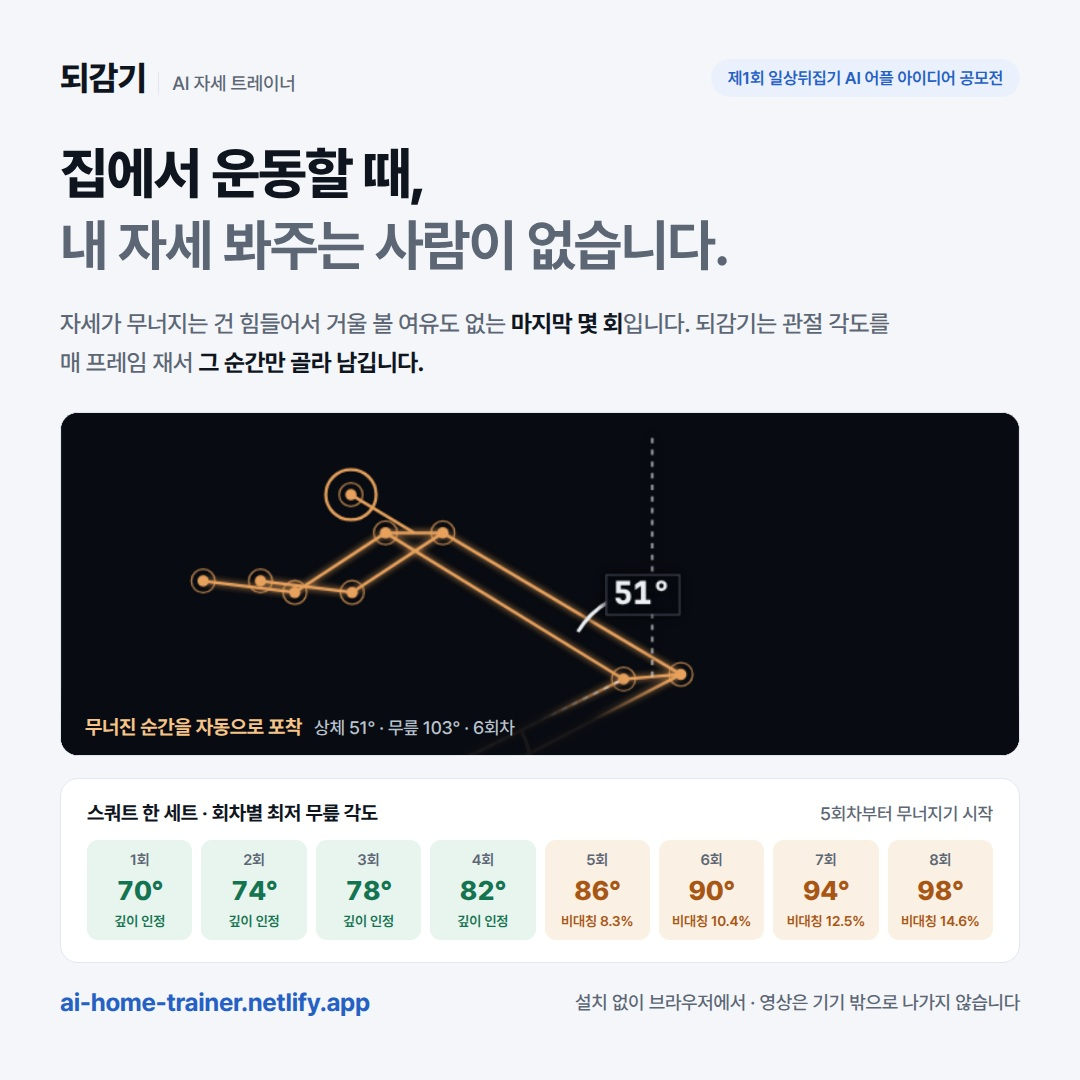
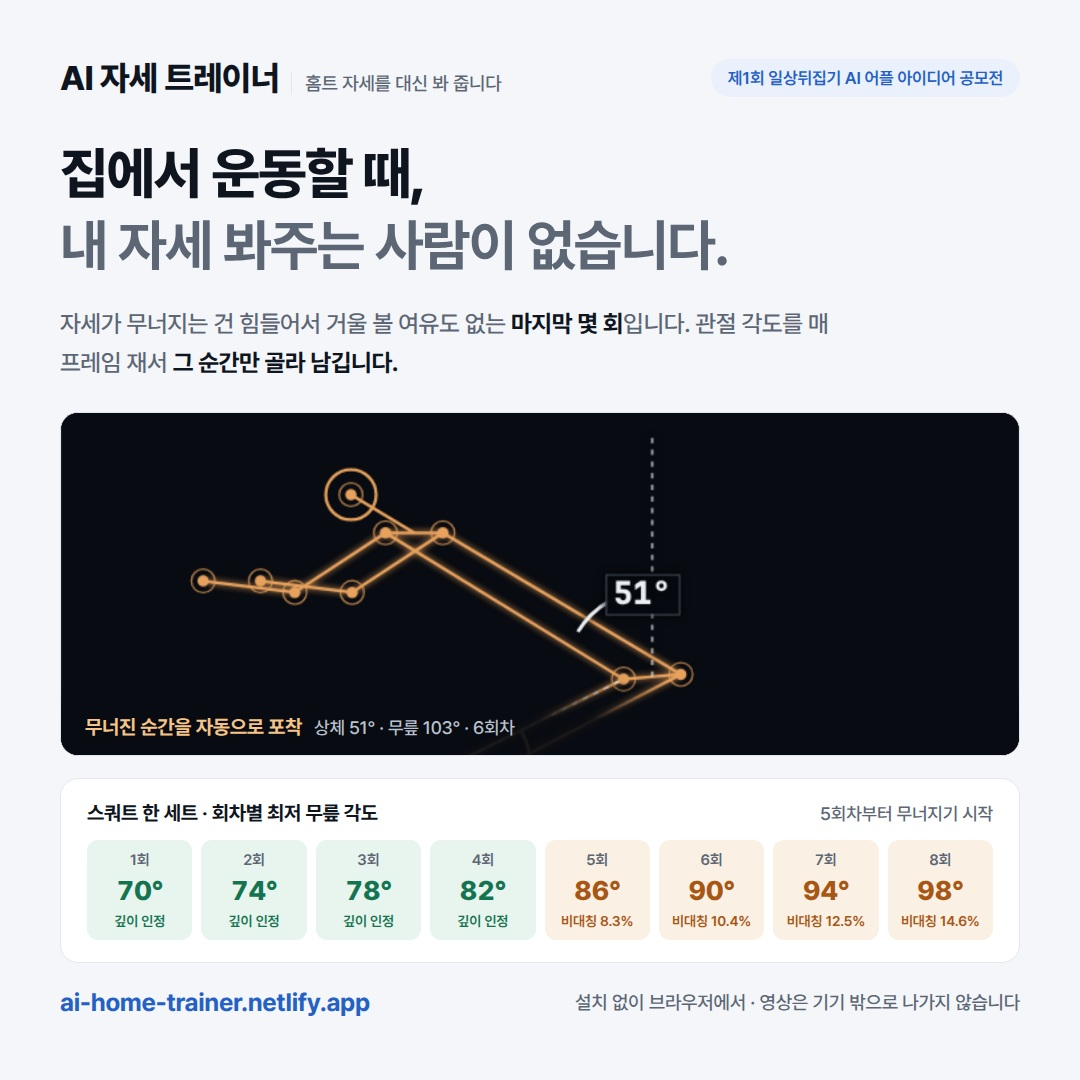
이름 변경: 되감기 → AI 자세 트레이너
"되감기"는 무슨 서비스인지 전달되지 않는다는 판단으로 프로젝트에서 제거했다.
index.html, deck.html, 인스타 카드, 제출 문서, 파일명까지 전부 반영.

- index.html 9곳: title, og:title, 헤더 로고, 본문 3곳, 푸터 2곳,
  결과 PNG 합성 시 캔버스에 찍는 문자열 1곳
- deck.html 11곳 → 소개서 5장 재렌더(1600x900, 900px 이내·잘린 글자 없음 확인)
- 이름이 길어져 모바일 헤더에서 로고가 두 줄로 접혔다.
  560px 이하에서 로고 18px·nowrap, 배지는 ON-DEVICE만 남기도록 수정
- 파일명: 되감기_소개서_*.jpg → AI자세트레이너_소개서_*.jpg,
  제출키트도 동일하게 변경
- 게시글 제목: [롱제비티코드/김주형] AI 자세 트레이너 |
  홈트 자세, 무너진 순간만 잡아주는 웹앱

Changed region(s): [[0.0611, 0.3056, 0.3972, 0.3667], [0.0611, 0.0611, 0.4583, 0.0917], [0.6417, 0.275, 0.825, 0.3056]]

diff --git a/deck.html b/deck.html
@@ -153,7 +153,7 @@ h1 .hi,h2 .hi{color:var(--accent)}
       <div class="src">출처 · 스포츠안전재단 「2015년 스포츠 안전사고 실태조사」(3,031명 대상) / 시장조사 기반 홈트레이닝 이용 조사(2020년 보도 기준). 두 수치 모두 조사 시점이 현재와 차이가 있어 참고 지표로 제시합니다.</div>
     </div>
   </div>
-  <div class="brand"><b>되감기</b> REWIND</div>
+  <div class="brand"><b>AI 자세 트레이너</b></div>
   <div class="pnum">01 / 05</div>
 </div>
 
@@ -176,7 +176,7 @@ h1 .hi,h2 .hi{color:var(--accent)}
         </ul>
       </div>
       <div class="new">
-        <div class="h">되감기가 채우는 자리</div>
+        <div class="h">이 서비스가 채우는 자리</div>
         <ul>
           <li>힘든 회차일수록 <b>자동으로</b> 잡아 둔다 — 볼 여유가 없어도 된다</li>
           <li>링크만 열면 끝. <b>설치·가입·촬영 버튼이 없다</b></li>
@@ -188,12 +188,12 @@ h1 .hi,h2 .hi{color:var(--accent)}
     <div class="two" style="grid-template-columns:1.35fr .65fr;align-items:center;gap:34px">
       <div class="note">
         <div class="t">핵심 니즈 한 줄</div>
-        <div class="d">“운동을 대신 짜주지 말고, <b style="color:#0F151E">내가 지금 무너지고 있다는 사실만</b> 제때 알려 달라.” 되감기는 프로그램을 처방하지 않습니다. 관찰만 합니다.</div>
+        <div class="d">“운동을 대신 짜주지 말고, <b style="color:#0F151E">내가 지금 무너지고 있다는 사실만</b> 제때 알려 달라.” 프로그램을 처방하지 않습니다. 관찰만 합니다.</div>
       </div>
-      <div class="big">매일 홈트 자세가 맞는지 확인하는 게 너무 귀찮다<br><span class="hi">→ AI로 무너진 순간만 잡아 되돌려 보여주는 되감기</span></div>
+      <div class="big">매일 홈트 자세가 맞는지 확인하는 게 너무 귀찮다<br><span class="hi">→ AI로 무너진 순간만 잡아 되돌려 보여주는 AI 자세 트레이너</span></div>
     </div>
   </div>
-  <div class="brand"><b>되감기</b> REWIND</div>
+  <div class="brand"><b>AI 자세 트레이너</b></div>
   <div class="pnum">02 / 05</div>
 </div>
 
@@ -201,7 +201,7 @@ h1 .hi,h2 .hi{color:var(--accent)}
   <div class="kicker">SERVICE CONCEPT</div>
   <div>
     <div class="eyebrow">03 · 서비스 컨셉</div>
-    <h2>거울은 <span class="dim">지금</span>만 보여줍니다. 되감기는 <span class="hi">무너진 순간</span>을 남깁니다.</h2>
+    <h2>거울은 <span class="dim">지금</span>만 보여줍니다. 이 앱은 <span class="hi">무너진 순간</span>을 남깁니다.</h2>
     <p class="lead">웹캠 앞에서 운동하면 전신 관절 33점을 매 프레임 추정하고, <b>세 개의 각도</b>를 계산합니다. 기준을 넘긴 프레임은 자동으로 저장됩니다. 세트가 끝나면 <b>몇 회차에서 어떤 값으로 무너졌는지</b>가 그림과 숫자로 남습니다.</p>
   </div>
   <div class="grow">
@@ -221,10 +221,10 @@ h1 .hi,h2 .hi{color:var(--accent)}
     </div>
     <div class="note">
       <div class="t">뒤집은 지점</div>
-      <div class="d">기존 운동 앱은 <b style="color:#0F151E">잘한 것을 세어</b> 동기를 줍니다. 되감기는 <b style="color:#0F151E">무너진 것을 남겨</b> 다음 세트를 바꿉니다. 기록이 아니라 증거를 만듭니다.</div>
+      <div class="d">기존 운동 앱은 <b style="color:#0F151E">잘한 것을 세어</b> 동기를 줍니다. 이 앱은 <b style="color:#0F151E">무너진 것을 남겨</b> 다음 세트를 바꿉니다. 기록이 아니라 증거를 만듭니다.</div>
     </div>
   </div>
-  <div class="brand"><b>되감기</b> REWIND</div>
+  <div class="brand"><b>AI 자세 트레이너</b></div>
   <div class="pnum">03 / 05</div>
 </div>
 
@@ -248,7 +248,7 @@ h1 .hi,h2 .hi{color:var(--accent)}
       <div class="d" style="margin-top:0"><b style="color:#0F151E">카메라를 켜지 않아도 됩니다.</b> 합성 관절 좌표를 동일한 계산 파이프라인에 통과시키는 <b style="color:#0F151E">시연 모드</b>가 있어, 권한 없이도 카운트·경고·캡처가 그대로 동작합니다. 스쿼트·푸시업·런지·벤치프레스·점핑잭·플랭크·목 스트레칭 <b style="color:#0F151E">7종</b>이 같은 코드로 돕니다.</div>
     </div>
   </div>
-  <div class="brand"><b>되감기</b> REWIND</div>
+  <div class="brand"><b>AI 자세 트레이너</b></div>
   <div class="pnum">04 / 05</div>
 </div>
 
@@ -257,7 +257,7 @@ h1 .hi,h2 .hi{color:var(--accent)}
   <div>
     <div class="eyebrow">05 · 사업성과 확장</div>
     <h2>봐주는 눈은 생기되, <span class="hi">영상은 어디로도 가지 않습니다.</span></h2>
-    <p class="lead">운동 영상은 가장 올리기 꺼려지는 데이터입니다. 되감기는 서버를 두지 않는 것을 <b>기능이 아니라 원칙</b>으로 삼아, 기존 AI 코칭 서비스가 넘지 못한 심리적 장벽을 지웁니다.</p>
+    <p class="lead">운동 영상은 가장 올리기 꺼려지는 데이터입니다. 서버를 두지 않는 것을 <b>기능이 아니라 원칙</b>으로 삼아, 기존 AI 코칭 서비스가 넘지 못한 심리적 장벽을 지웁니다.</p>
   </div>
   <div class="grow">
     <div class="biz">
@@ -278,7 +278,7 @@ h1 .hi,h2 .hi{color:var(--accent)}
     </div>
     <div class="big">AI가 “알아서 판단”하지 않습니다. <span class="hi">무엇을 어떻게 쟀는지 화면에 그대로 띄웁니다.</span></div>
   </div>
-  <div class="brand"><b>되감기</b> REWIND · 제1회 일상뒤집기 AI 어플 아이디어 공모전</div>
+  <div class="brand"><b>AI 자세 트레이너</b> · 제1회 일상뒤집기 AI 어플 아이디어 공모전</div>
   <div class="pnum">05 / 05</div>
 </div>
 

diff --git a/index.html b/index.html
@@ -3,10 +3,10 @@
 <head>
 <meta charset="UTF-8" />
 <meta name="viewport" content="width=device-width, initial-scale=1.0" />
-<title>되감기 — AI 자세 트레이너</title>
+<title>AI 자세 트레이너</title>
 <meta name="description" content="웹캠 앞에서 운동하면 관절 각도를 매 프레임 재서 자세가 무너진 순간만 잡아 남깁니다. 브라우저 안에서 계산해 영상이 기기 밖으로 나가지 않습니다." />
 <meta property="og:type" content="website" />
-<meta property="og:title" content="되감기 — AI 자세 트레이너" />
+<meta property="og:title" content="AI 자세 트레이너 — 홈트 자세를 대신 봐 줍니다" />
 <meta property="og:description" content="웹캠 앞에서 운동하면 관절 각도를 매 프레임 재서 자세가 무너진 순간만 잡아 남깁니다. 브라우저 안에서 계산해 영상이 기기 밖으로 나가지 않습니다." />
 <meta property="og:locale" content="ko_KR" />
 <meta name="twitter:card" content="summary" />
@@ -91,7 +91,9 @@
   /* 좁은 화면에서 배지(nowrap)가 안 줄어 로고를 헤더 밖으로 밀어냈다. REWIND를 접어 자리를 만든다. */
   @media(max-width:560px){
     .logo .tag{display:none}
-    .badge{font-size:12px;padding:5px 11px;gap:6px}
+    .logo b{font-size:18px;white-space:nowrap}   /* 이름이 길어져 두 줄로 접혔다 */
+    .badge{font-size:11px;padding:5px 9px;gap:5px}
+    .badge span{display:none}                    /* 좁은 화면에서는 ON-DEVICE만 */
     .hd{gap:10px}
   }
 
@@ -435,7 +437,7 @@
 
 <header>
   <div class="wrap hd">
-    <div class="logo"><b>되감기</b><span class="tag">AI 자세 트레이너</span></div>
+    <div class="logo"><b>AI 자세 트레이너</b><span class="tag">홈트 자세를 대신 봐 줍니다</span></div>
     <div class="badge"><b class="mono">ON-DEVICE</b><span>영상 전송 없음</span></div>
   </div>
 </header>
@@ -447,7 +449,7 @@
       <h1><span style="color:var(--cyan)">AI 트레이너</span>가<br>당신의 자세를 대신 봐 줍니다.</h1>
       <p class="sub">
         웹캠 앞에서 운동하면 무릎·상체·좌우 균형을 <b>매 프레임 각도로</b> 잽니다.
-        거울은 지금만 보여주지만, 되감기는 <b>자세가 무너진 순간</b>만 골라 사진으로 남깁니다.
+        거울은 지금만 보여주지만, 이 페이지는 <b>자세가 무너진 순간</b>만 골라 사진으로 남깁니다.
       </p>
       <div class="cta">
         <button class="btn" id="startBtn">카메라 켜고 측정 시작</button>
@@ -591,7 +593,7 @@
     <div class="stitle mono">HOW IT MEASURES</div>
     <h2>AI가 “알아서 판단”하지 않습니다.<br>무엇을 어떻게 쟀는지 화면에 그대로 띄웁니다.</h2>
     <p class="lead">
-      자세의 좋고 나쁨을 통째로 맞히려는 모델은 틀렸을 때 이유를 설명하지 못합니다. 되감기는 판정 근거를 세 개의 측정값으로 좁혀, 사용자가 값을 직접 보고 납득하게 만듭니다.
+      자세의 좋고 나쁨을 통째로 맞히려는 모델은 틀렸을 때 이유를 설명하지 못합니다. 그래서 판정 근거를 세 개의 측정값으로 좁혀, 사용자가 값을 직접 보고 납득하게 만듭니다.
     </p>
     <div class="rows">
       <div class="row">
@@ -638,7 +640,7 @@
     <h2>홈트를 그만두는 이유는<br>귀찮아서가 아니라, 맞게 하고 있는지 몰라서입니다.</h2>
     <p class="lead">
       헬스장에 가면 트레이너가 봐 줍니다. 집에서는 아무도 안 봅니다. 영상을 찍어 돌려보는 건 번거롭고, 얼굴이 찍힌 운동 영상을 클라우드에 올리고 싶은 사람도 없습니다.
-      되감기는 그 사이를 메웁니다 — <b style="color:var(--chalk)">봐 주는 눈은 생기되, 영상은 어디로도 가지 않는</b> 방식으로.
+      이 서비스는 그 사이를 메웁니다 — <b style="color:var(--chalk)">봐 주는 눈은 생기되, 영상은 어디로도 가지 않는</b> 방식으로.
     </p>
   </section>
 
@@ -684,8 +686,8 @@
 
 <footer>
   <div class="wrap">
-    <b>되감기 (REWIND)</b> · 제1회 일상뒤집기 AI 어플 아이디어 공모전 출품작<br>
-    매일 홈트 자세가 맞는지 확인하는 게 너무 귀찮다 → AI로 무너진 순간만 잡아 되돌려 보여주는 되감기<br>
+    <b>AI 자세 트레이너</b> · 제1회 일상뒤집기 AI 어플 아이디어 공모전 출품작<br>
+    매일 홈트 자세가 맞는지 확인하는 게 너무 귀찮다 → AI로 무너진 순간만 잡아 되돌려 보여주는 AI 자세 트레이너<br>
     <span style="color:var(--muted)">본 프로토타입은 브라우저 온디바이스 추론으로 동작합니다. 카메라 권한을 거부해도 시연 모드로 전체 흐름을 확인할 수 있습니다.</span>
   </div>
 </footer>
@@ -1576,7 +1578,7 @@ async function saveReport(){
     const PAD=56;
     g.textBaseline='alphabetic';
     g.fillStyle='#EDF1F6'; g.font='800 30px '+SANS;
-    g.fillText('되감기', PAD, 74);
+    g.fillText('AI 자세 트레이너', PAD, 74);
     g.fillStyle='#79B8FF'; g.font='700 15px '+MONOF;
     g.fillText('REWIND · SET REPORT · '+CUR.name, PAD+104, 72);
     const d=new Date(), p2=n=>String(n).padStart(2,'0');

diff --git a/sns/ig_card.html b/sns/ig_card.html
@@ -50,13 +50,13 @@ h1 .g{color:var(--muted);font-weight:700}
 </style></head><body>
 <div class="card">
   <div class="top">
-    <div class="brand"><b>되감기</b><span>AI 자세 트레이너</span></div>
+    <div class="brand"><b>AI 자세 트레이너</b><span>홈트 자세를 대신 봐 줍니다</span></div>
     <div class="chip">제1회 일상뒤집기 AI 어플 아이디어 공모전</div>
   </div>
 
   <h1>집에서 운동할 때,<br><span class="g">내 자세 봐주는 사람이 없습니다.</span></h1>
   <p class="sub">자세가 무너지는 건 힘들어서 거울 볼 여유도 없는 <b>마지막 몇 회</b>입니다.
-    되감기는 관절 각도를 매 프레임 재서 <b>그 순간만 골라 남깁니다.</b></p>
+    관절 각도를 매 프레임 재서 <b>그 순간만 골라 남깁니다.</b></p>
 
   <div class="shot">
     <img src="_app.png" alt="">

diff --git a/제출_최종체크리스트.md b/제출_최종체크리스트.md
@@ -1,11 +1,11 @@
-# 되감기 — 제출 시트 (이 문서만 보고 게시하면 됩니다)
+# AI 자세 트레이너 — 제출 시트 (이 문서만 보고 게시하면 됩니다)
 
 **마감 2026-08-22(토) 23:59** · 제출처: homegle.co.kr → 게시판 → 자유게시판 → 공모전 참여
 
 | | |
 |---|---|
 | 팀 / 이름 | **롱제비티코드 / 김주형** |
-| 작품명 | **되감기 (REWIND)** |
+| 작품명 | **AI 자세 트레이너** |
 | 프로토타입 | **https://ai-home-trainer.netlify.app** |
 | 인스타 | **@longevity.code3** |
 | 유튜브 | (촬영 후 입력) |
@@ -18,11 +18,11 @@
 
 | 순번 | 파일 / 화면 | 상태 |
 |---|---|---|
-| 1 | `되감기_소개서_1of5.jpg` — 문제와 배경 | ✅ 준비됨 |
-| 2 | `되감기_소개서_2of5.jpg` — 니즈 | ✅ 준비됨 |
-| 3 | `되감기_소개서_3of5.jpg` — 컨셉 | ✅ 준비됨 |
-| 4 | `되감기_소개서_4of5.jpg` — 프로토타입 실제 동작 | ✅ 준비됨 |
-| 5 | `되감기_소개서_5of5.jpg` — 사업성 | ✅ 준비됨 |
+| 1 | `AI자세트레이너_소개서_1of5.jpg` — 문제와 배경 | ✅ 준비됨 |
+| 2 | `AI자세트레이너_소개서_2of5.jpg` — 니즈 | ✅ 준비됨 |
+| 3 | `AI자세트레이너_소개서_3of5.jpg` — 컨셉 | ✅ 준비됨 |
+| 4 | `AI자세트레이너_소개서_4of5.jpg` — 프로토타입 실제 동작 | ✅ 준비됨 |
+| 5 | `AI자세트레이너_소개서_5of5.jpg` — 사업성 | ✅ 준비됨 |
 | 6 | **@snhomeground 팔로우 화면** 캡처 | ✅ 팔로우 완료 — 프로필에서 `팔로잉` 보이게 캡처 |
 | 7 | **공모전 안내 피드 좋아요** 화면 캡처 | ✅ 하트 완료 — 하트가 빨갛게 찬 상태로 캡처 |
 | 8 | **내 홍보 게시글** 화면 캡처 | ✅ 업로드 완료 — `longevity.code3` 아이디와 캡션이 보이게 캡처 |
@@ -37,14 +37,14 @@
 ## 2. 게시글 제목
 
 ```
-[롱제비티코드/김주형] 되감기 | 홈트 자세, 무너진 순간만 잡아주는 AI 트레이너
+[롱제비티코드/김주형] AI 자세 트레이너 | 홈트 자세, 무너진 순간만 잡아주는 웹앱
 ```
 
 ---
 
 ## 3. 게시글 본문
 
-`되감기_제출키트_김주형.md`의 **2번 항목**을 그대로 복사합니다.
+`AI자세트레이너_제출키트_김주형.md`의 **2번 항목**을 그대로 복사합니다.
 **`[여기에 유튜브 URL]` 한 자리만** 채우면 됩니다. 프로토타입 주소는 이미 들어가 있습니다.
 
 ---

diff --git a/배포하기.md b/배포하기.md
@@ -26,7 +26,7 @@ Netlify → 해당 프로젝트 → Project configuration → General
 `ai-trainer` 같은 짧은 단어는 이미 선점돼 있을 가능성이 높습니다.
 규칙: 영문 소문자·숫자·하이픈만. 전 세계에서 중복 불가.
 
-> 주소에 작품명(되감기/rewind)이 없어도 됩니다. 소개서·게시글·화면 안에는
+> 주소에 작품명이 없어도 됩니다. 소개서·게시글·화면 안에는
 > 작품명이 그대로 들어가 있으므로 심사에 문제되지 않습니다.
 
 ---
